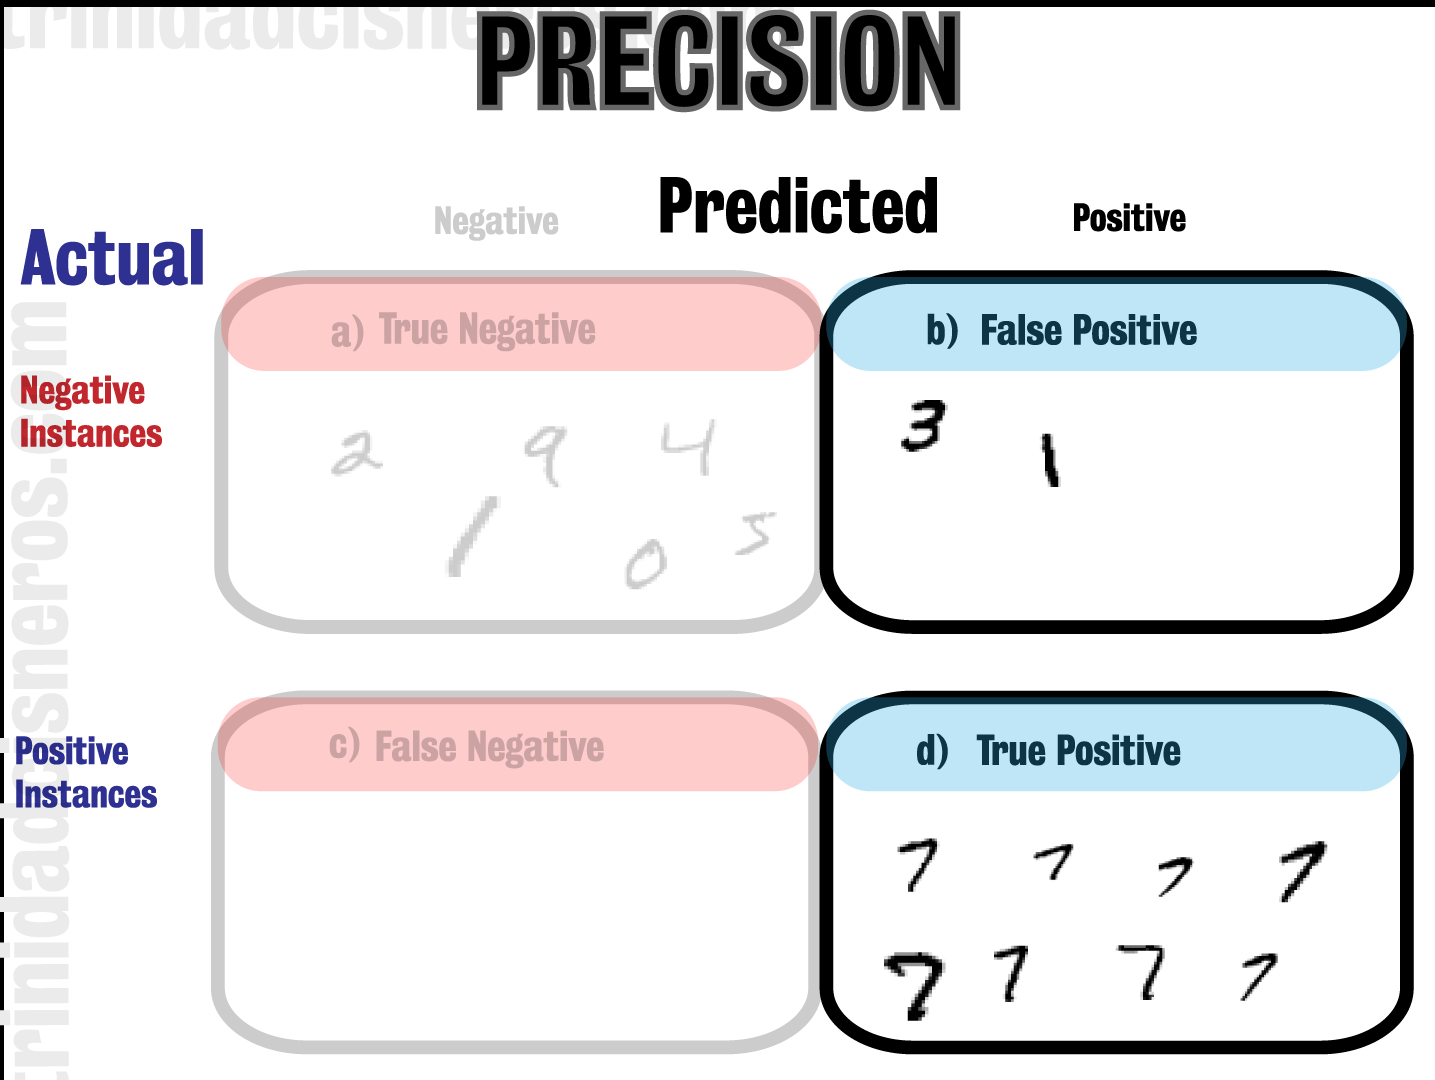
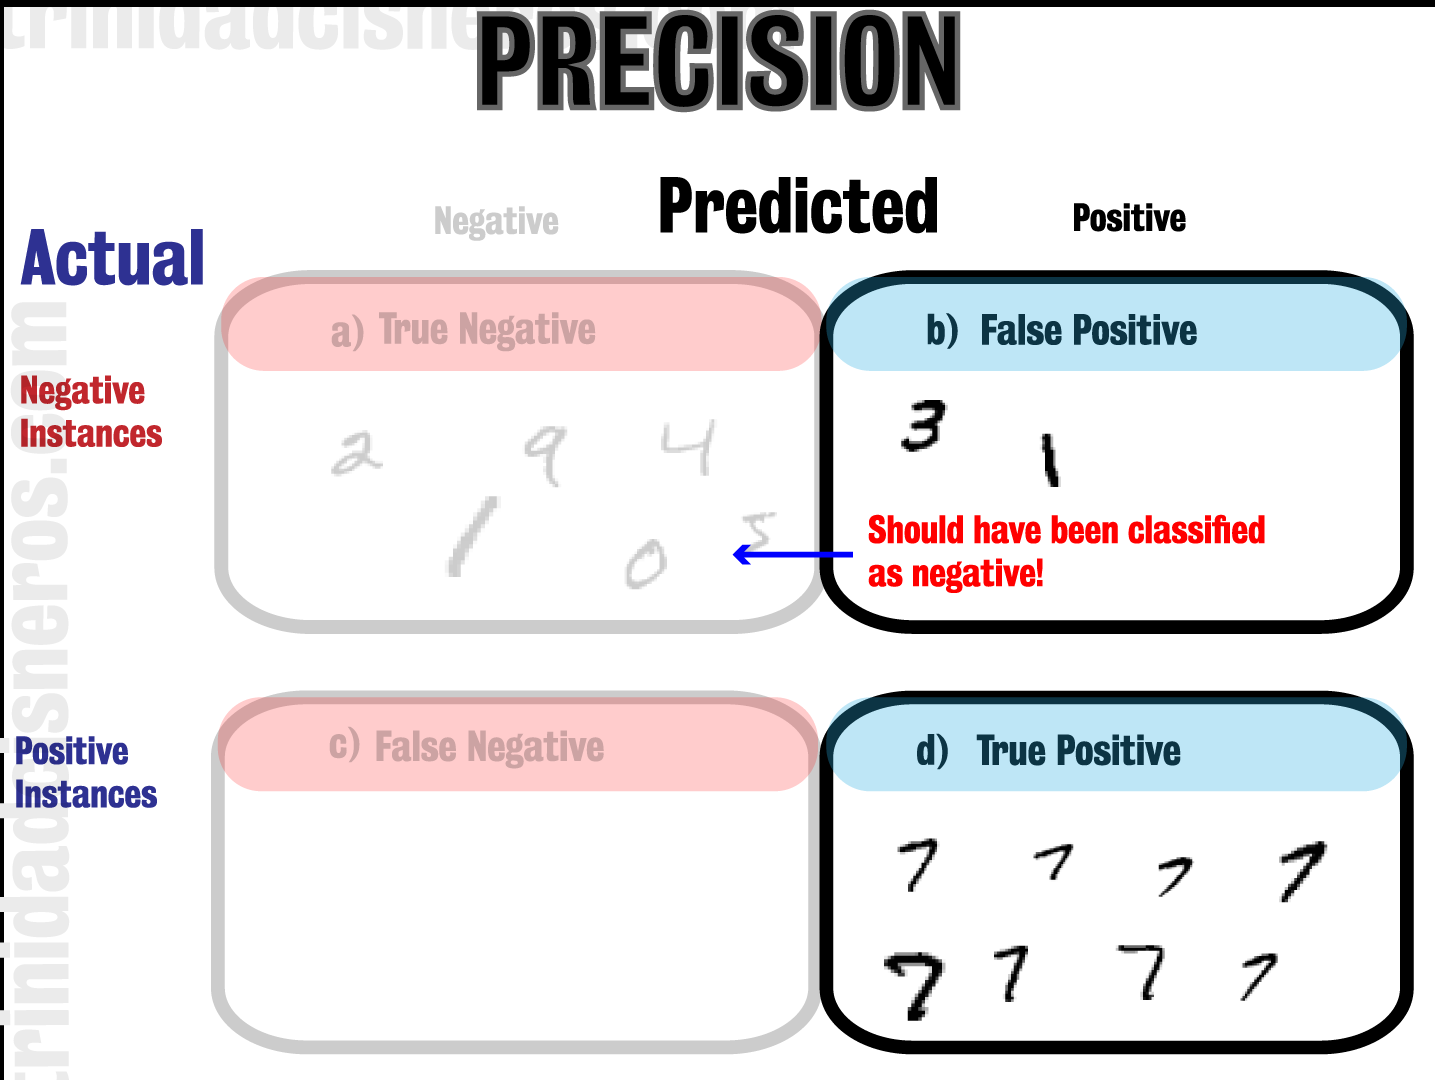
updated cm post

Changed region(s): [[0.4906, 0.4583, 0.8892, 0.55]]

diff --git a/folders/ds_blogs/ds_confusion_matrix.html b/folders/ds_blogs/ds_confusion_matrix.html
@@ -301,15 +301,18 @@
                       class="figure"></img></a>
                   Precision is a concise metric that is used to evaluate how well the model was at
                   <strong>classifying</strong> real positive value in the dataset. <br>
-                  In this example, it indicates how many of the "Positives" were actually 7.<br>
-                  Are the true positives greater than the false positives?<br>
-                  Looking at the formula for precision, we see that as the false positives go down and approach 0, the
+                  -In this example, it indicates how many of the "Positives" were actually 7.<br>
+                  -Ask yourself, are the true positives greater than the false positives?<br>
+                  -Looking at the formula for precision, we see that as the number of false positives classified goes down, and approach 0, the
                   precision approaches 1 (which is perfection).<br>
-                  The precision score in this example was 83%. This tells us that out of 10 instances that the algorithm
-                  classified as 7, two of them were not 7, and were false positives.
+                  The precision score in this example was 83%. This tells us that:<br>
+                  - out of 10 predictions:<br>
+                  ---- 8 predictions were correctly classified as 7<br>
+                  ---- 2 predictions were misclassified as 7, but were actually some other number<br>
+                  The image below summarizes this text.
                 </p>
                 <a href="projects/MNIST/static/images/precision_explained.png">
-                  <img src="projects/MNIST/static/images/precision_explained.png" width="75%" height=100% class="figure"></img></a>
+                  <img src="projects/MNIST/static/images/precision_explained.png" width="60%" height=100% class="figure"></img></a>
               </div>
               <hr>
 
@@ -327,9 +330,10 @@
                   -- out of 10 predictions:<br>
                   ---- 8 predictions were correctly classified as 7<br>
                   ---- 2 predictions were misclassified as NOT a 7, and some other number<br>
+                  The image below summarizes this text.
                 </p>
                 <a href="projects/MNIST/static/images/recall_explained.png">
-                  <img src="projects/MNIST/static/images/recall_explained.png" width="75%" height=100% class="figure"></img></a>
+                  <img src="projects/MNIST/static/images/recall_explained.png" width="60%" height=100% class="figure"></img></a>
               </div>
               <hr>
               <hr>
